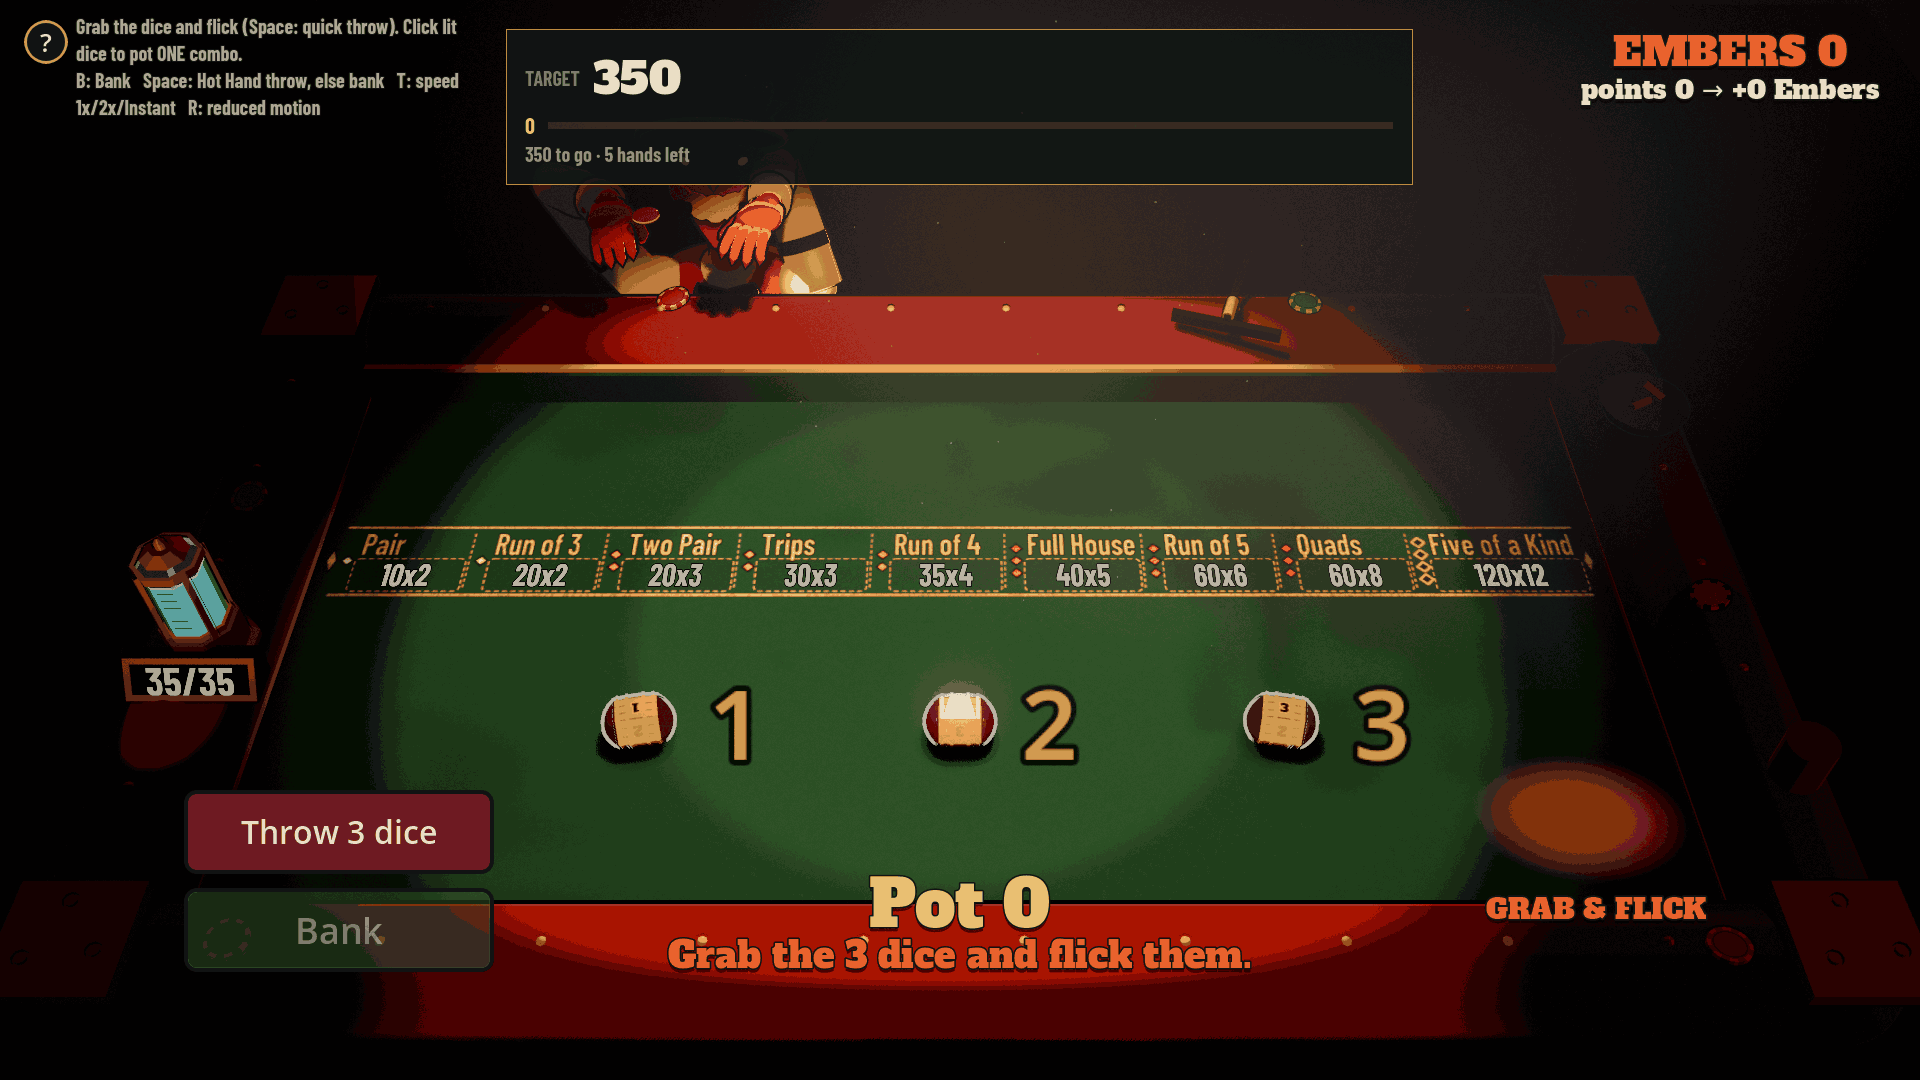
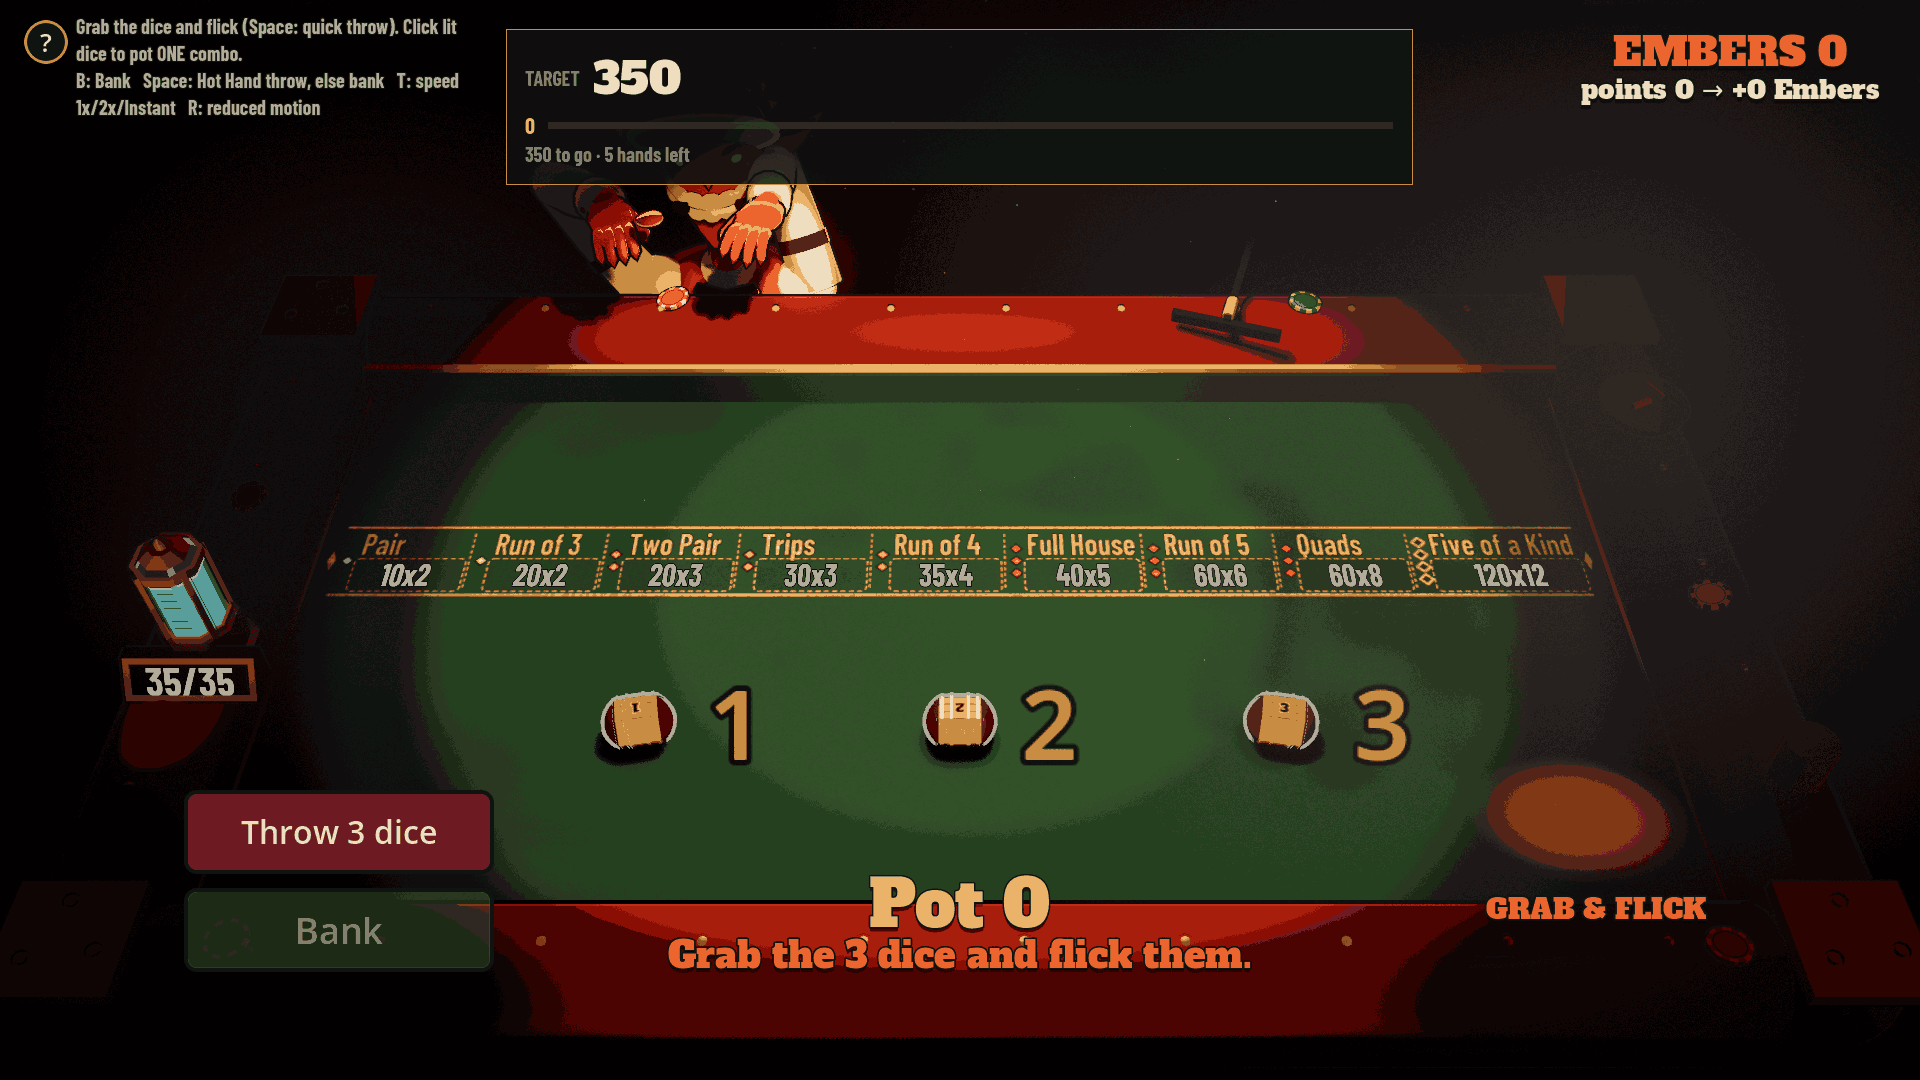
Keep Powder Keg numerals out of the lamp specular
The keg body inherits the bone die's specular lobe (size 0.97, cream
white). When the up stave reflects the lamp toward the camera, that
lobe paints the scored digit white. Numeral cells on a keg now skip
specular and rim. Other dice are unchanged.

diff --git a/docs/ARCHITECTURE.md b/docs/ARCHITECTURE.md
@@ -309,7 +309,7 @@ that you add gets a row in [AI_CONTENT_LOG.md](AI_CONTENT_LOG.md).
   - Tests: `tests/test_d4_readable.gd` (brightness part needs a renderer: `xvfb-run -a godot --path . --rendering-method gl_compatibility --script ...`).
 - **Powder Keg readability:** the barrel (die id `powder_keg`, body shape `keg`) is read from the stave pointing up (values 1, 1, 2, 2, 3, 3). That stave faces the sky, so the angled camera sees a neighbouring stave (a different number) more face-on. Two readouts, no new signals, and no extra glow (emission stays the normal scoring glow, <= 0.3):
   - `scripts/table3d/keg_value_tag.gd` (`KegValueTag`, child `KegValueTag` of the die, a `D4ValueTag`) is an unlit camera-facing label of `DieVisual.shown_value()`. `PolyBody.dress` attaches it.
-  - `scripts/table3d/keg_stave_dim.gd` (`KegStaveDim`, child `KegStaveDim`) listens to the die's existing `settled` signal and to the table's existing `throw_started`. On settle it sets instance uniforms `lit_stave` (the face value 1, 2 or 3) and `stave_dim` (0..1, about 0.15 s, instant under reduced motion or Instant speed) on that die's body mesh. `shaders/3d/keg_stave_dim.gdshaderinc`, included by both `toon_noir.gdshader` and `toon_noir_twin.gdshader`, fades numeral ink in the other atlas cells toward the stave wood (value v lives in cell v−1; about 30% contrast remains). Lids and hoops are not numeral cells, so they stay. While the keg is rolling, and on every other die, both uniforms stay 0 and every numeral is full. A new throw clears them at once. The separate rare "Powder Barrel" d6 (`barrel`) is not this die. Tests: `tests/test_keg_readable.gd`, `tests/test_keg_stave_dim.gd`.
+  - `scripts/table3d/keg_stave_dim.gd` (`KegStaveDim`, child `KegStaveDim`) listens to the die's existing `settled` signal and to the table's existing `throw_started`. On settle it sets instance uniforms `lit_stave` (the face value 1, 2 or 3) and `stave_dim` (0..1, about 0.15 s, instant under reduced motion or Instant speed) on that die's body mesh. `shaders/3d/keg_stave_dim.gdshaderinc`, included by both `toon_noir.gdshader` and `toon_noir_twin.gdshader`, fades numeral ink in the other atlas cells toward the stave wood (value v lives in cell v−1; about 30% contrast remains). Lids and hoops are not numeral cells, so they stay. While the keg is rolling, and on every other die, both uniforms stay 0 and every numeral is full. `KegStaveDim` also sets instance uniform `keg_body` to 1 on that mesh only. Numeral ink then skips the bone die's specular lobe (`spec_size` 0.97, cream white), which the keg body otherwise inherits and which paints the up stave white when it reflects the lamp toward the camera. Rim on that ink is skipped the same way. Wood, lids and hoops still take the highlight. No emission is added. A new throw clears them at once. The separate rare "Powder Barrel" d6 (`barrel`) is not this die. Tests: `tests/test_keg_readable.gd`, `tests/test_keg_stave_dim.gd`.
 - **Nerve panel dodge (#198):** `NerveUi._place_panels` puts the "Nerve ready" pip and the rescue prompt at their home spot, then through `RulesPlaqueDodge.place(rect, blockers, view)` (left, below, above, right; else least overlap). The blockers (`NerveUi._blockers`) are the landed dice (`RulesPlaqueDodge.die_rect`) plus `HudTextRects.collect`, minus the Nerve UI's own labels and the bounty cards it hangs under. Target HUD v2.1: the goal plate (grown 24 px) is a blocker too, Nerve re-places in the same frame the plate or SEALS chip moves (`item_rect_changed`), and when all 4 spots overlap the dodge sweeps for the first clear spot. Test: `tests/test_target_hud.gd`. Test: `tests/test_nerve_die_clear.gd` (PC 16:9 and phone 844x390, d4 parked under the pip).
 
 <!-- SECTION: VFX Dev — FX (owner text; replace freely) -->

diff --git a/docs/AI_CONTENT_LOG.md b/docs/AI_CONTENT_LOG.md
@@ -52,7 +52,7 @@ VFX Dev = FX textures and shaders, Game Designer = text. Sources are in brackets
 | `art/models/dice/{caltrop_d4,lantern_d8,tithe_d10,midnight_d12,verdict_d20,ferryman_coin,powder_keg_d6,knucklebone_talus}{,_mobile}.glb` + their `materials/*.tres` (incl. `batch3_ink_thin.tres`), `batch3_faces.json`, `batch3_face_prints.json` | **AI-assisted (agent-written script):** Blender 4.5 LTS `art/models/dice/src/build_batch3.py`; materials, face prints and import mapping from `src/write_batch3.py` | Batch-3 non-d6 special dice models and mobile LODs. No third-party meshes or textures. [art/models/dice/BATCH3.md] | 2026-10-19 | 3D Artist |
 | `art/models/dice/textures/{caltrop_d4,lantern_d8,tithe_d10,midnight_d12,verdict_d20,ferryman_coin,knucklebone_talus}_faces.png` | **AI-assisted (agent-written script):** Python + Pillow `art/models/dice/src/write_batch3.py`; numerals rasterised from Alfa Slab One (SIL OFL 1.1, `fonts/`); no AI image generation | Face atlases (numerals, pips, skull/moth, glass streak, stave lines). [art/models/dice/BATCH3.md; header of write_batch3.py] | 2026-10-19 | 3D Artist |
 | `art/models/dice/textures/powder_keg_d6_faces.png` | **TBD (ask Art Director):** handoff `powder_keg_nov12`, not regenerated by `write_batch3.py`. Same 1024 atlas and UV layout; cells 23–24 (lids / hoops) unchanged from the script paint | Chunky stave numerals 1/2/3 (ink `#1E1712`, cream `#E8DCC0` keyline, no emission) centred between the inner hoops, replacing the carved pips. Fingerprints in `batch3_face_prints.json` were regenerated by `write_batch3.py` `write_face_prints` only | 2026-11-12 | Art Director |
-| `shaders/3d/keg_stave_dim.gdshaderinc` | **AI-assisted:** shader include written by a Grok Bot agent. No image generation. Included by `toon_noir.gdshader` and `toon_noir_twin.gdshader` | After a Powder Keg settles, numeral ink on every stave except the scored one fades toward the wood (about 30% contrast). No emission. | 2026-11-12 | Godot Dev |
+| `shaders/3d/keg_stave_dim.gdshaderinc` | **AI-assisted:** shader include written by a Grok Bot agent. No image generation. Included by `toon_noir.gdshader` and `toon_noir_twin.gdshader` | After a Powder Keg settles, numeral ink on every stave except the scored one fades toward the wood (about 30% contrast). Numeral ink also skips the inherited bone specular lobe so the up stave's digit stays dark. No emission. | 2026-11-12 | Godot Dev |
 | `art/models/boards/infernal_pit/**` (`*.glb`, `materials/`, `scenes/`) | **AI-assisted (agent-written script):** Blender 4.5 LTS `src/build_board_a.py` | Board A table kit. No third-party meshes or textures. [art/models/boards/infernal_pit/README.md] | 2026-10-18 | 3D Artist |
 | `art/models/boards/hearth/*.glb`, `materials/`, `scenes/` | **AI-assisted (agent-written script):** Blender 4.5 LTS `src/build_hearth.py` + Godot `src/make_hearth.gd` (via `src/rebuild_hearth.sh`) | Hearth board kit: brazier, candles, cauldron, demon faces. [art/models/boards/hearth/README.md] | 2026-10-18 | 3D Artist |
 | `art/models/boards/hearth/textures/felt_ember_corners.png`, `felt_ember_corners_worn.png` | **AI-assisted (agent-written script):** Python + Pillow `src/make_felt_motif.py` (the same script writes both; no AI image generation) | Ember motif overlay for the felt corners; the worn copy adds low-contrast wear (scuff arc, broken heat rings, burn pocks, a wax stain) for the dressing-on felt. [hearth/README.md "Set dressing"; header of make_felt_motif.py] | 2026-10-18; worn overlay 2026-10-19 (on `main` via #111, d058962) | 3D Artist |
